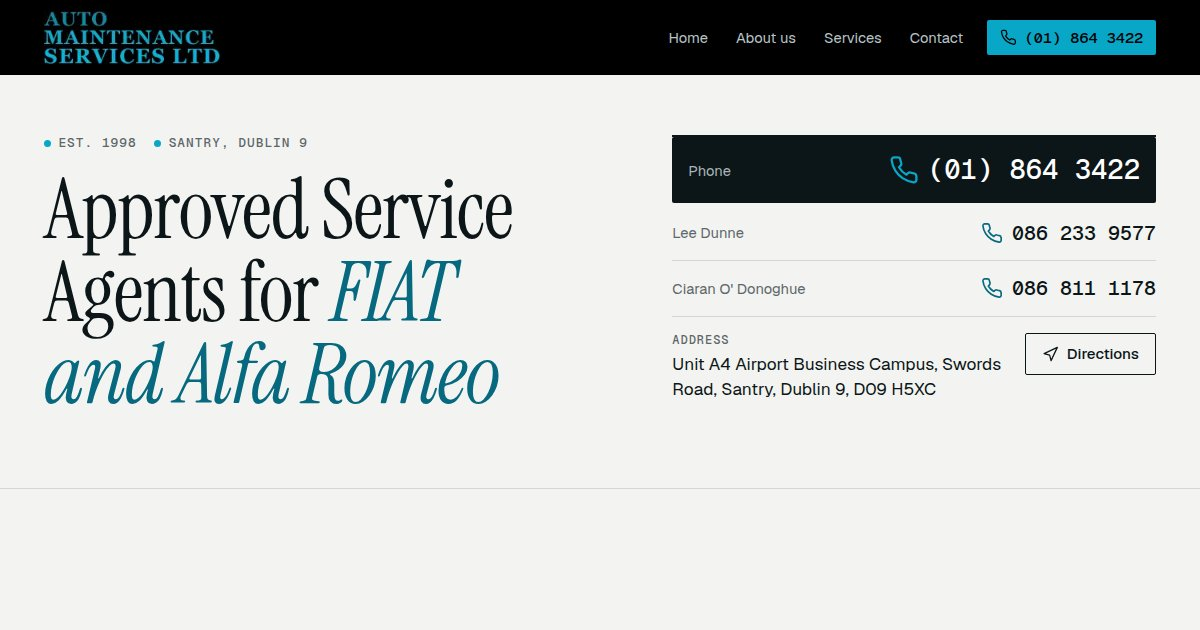
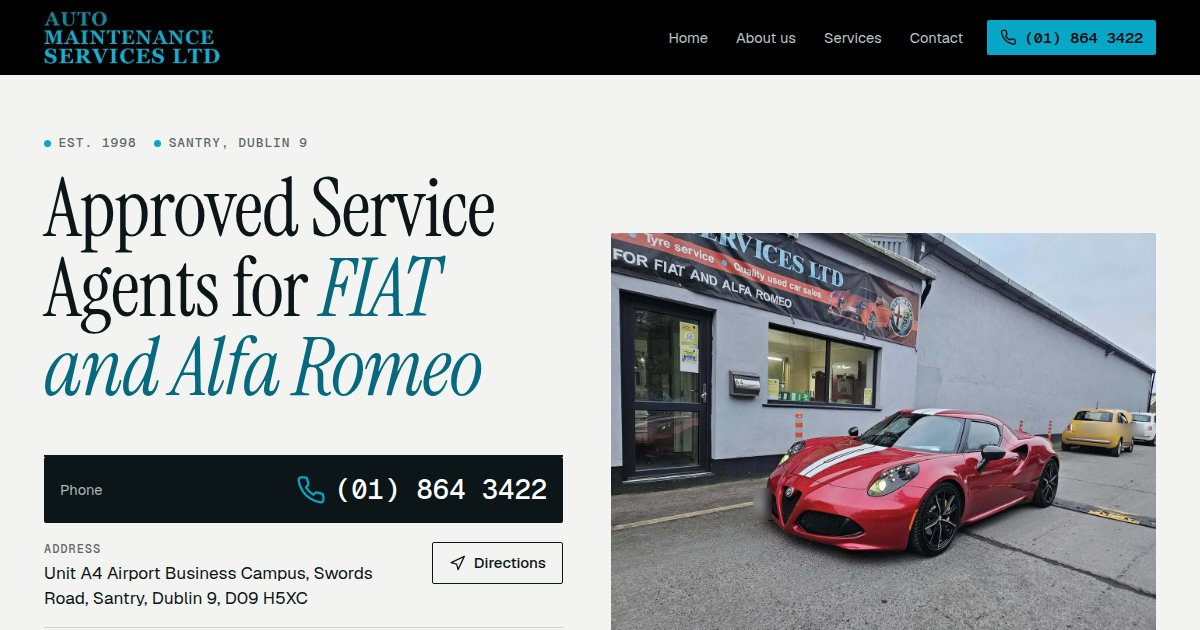
automaintenance.ie: own photos from the Facebook page
Hero: A-2, red 4C at the door under the Services Ltd banner (the banner
reads more clearly than in A-8). Workshop pair next to the service list:
open bonnet with equipment, injector cleaning. Gallery of six: horizontal
strip on phones, 3x2 grid on desktop. No captions.

Number plates blurred wherever readable. WebP, 968 KB for nine photos,
lazy below the first screen. Address moved right under the main number so
number and address sit above the fold from 360x740 up.

Claude-Session: https://claude.ai/code/session_01J7uHiudgy6bD3HoXPL7YoM

diff --git a/automaintenance/index.html b/automaintenance/index.html
@@ -41,12 +41,18 @@
     address sit above the fold at 320px. Every number is tap-to-call.
   - Typography, grid, spacing. One radius system: 2px.
   - Text set as text. On the original most of it sits in images.
+  - New: photo gallery (#gallery) and two workshop photos next to the
+    service list.
 
   IMAGES
-  None. The car photos on the original are FIAT / Alfa Romeo
-  marketing images with manufacturer logos, not the business's own
-  photos, so they are not used. No stock. A photo of the workshop
-  from the owner would go next to the About text.
+  Nine photos from the business's own Facebook page: customers' cars
+  outside Unit A4 and work in the workshop. Number plates blurred on
+  every photo where they were readable (front-4c, spider-door,
+  diagnostics, injector-clean, and two background cars in front-4c
+  and classic-coupe). No captions: models are named only in alt text,
+  and only where certain.
+  The FIAT / Alfa Romeo marketing images on the original are not
+  used: they show 2007-2014 models and the FCA logo. No stock.
 
   LEFT OUT (not on the site, or nothing to build from)
   - Opening hours: the site states none.
@@ -83,7 +89,7 @@
   --serif:"Instrument Serif", Georgia, "Times New Roman", serif;
   --sans:"Geist", system-ui, -apple-system, "Segoe UI", sans-serif;
   --mono:"Geist Mono", ui-monospace, "SFMono-Regular", Menlo, monospace;
-  --fs-hero:clamp(2.5rem, 1.5rem + 5vw, 5.6rem);
+  --fs-hero:clamp(2.25rem, 1.3rem + 5vw, 5.6rem);
   --fs-h2:clamp(2.1rem, 1.5rem + 2.8vw, 3.8rem);
   --fs-body:clamp(1rem, .97rem + .15vw, 1.08rem);
 }
@@ -117,15 +123,16 @@ a{color:inherit}
 @media (min-width:900px){.nav{display:flex}}
 
 /* ---------- hero ---------- */
-.hero{padding-block:clamp(1.5rem,5vw,4.5rem) clamp(2.5rem,6vw,5rem);border-bottom:1px solid var(--line)}
-.hero-grid{display:grid;gap:clamp(1.75rem,4vw,4rem)}
+.hero{padding-block:clamp(1rem,5vw,4.5rem) clamp(2.5rem,6vw,5rem);border-bottom:1px solid var(--line)}
+.hero-grid{display:grid;gap:clamp(1.25rem,4vw,4rem)}
 .meta{display:flex;flex-wrap:wrap;gap:.35rem 1.1rem;font:500 .8rem/1.3 var(--mono);text-transform:uppercase;letter-spacing:.08em;color:var(--muted);margin:0 0 1.1rem}
 .meta span{display:inline-flex;align-items:center;gap:.45rem}
 .meta span::before{content:"";width:.45rem;height:.45rem;background:var(--teal);border-radius:50%;flex:none}
 h1{font:400 var(--fs-hero)/.98 var(--serif);letter-spacing:-.015em;margin:0;max-width:14ch}
 h1 em{font-style:italic;color:var(--teal-text)}
 
-.dir{border-top:2px solid var(--ink);align-self:start}
+.dir{border-top:2px solid var(--ink);align-self:start;display:flex;flex-direction:column}
+.dir-main{order:1}.dir-addr{order:2}.dir-row:not(.dir-main){order:3}
 .dir-row{display:flex;flex-wrap:wrap;align-items:center;justify-content:space-between;gap:.2rem 1rem;padding:.95rem 0;border-bottom:1px solid var(--line);text-decoration:none}
 .dir-row .who{font-size:.92rem;color:var(--muted);flex:1 1 9em}
 .dir-row .num{font:500 clamp(1.05rem,1rem + .35vw,1.25rem)/1.2 var(--mono);display:inline-flex;align-items:center;gap:.55rem;white-space:nowrap}
@@ -137,13 +144,12 @@ a.dir-row:hover .num{color:var(--teal-text)}
 .dir-main .num .ico{color:var(--teal)}
 a.dir-main:hover{background:#18272b}
 a.dir-main:hover .num{color:#fff}
-.dir-addr{padding:1rem 0 0;display:flex;flex-wrap:wrap;gap:.75rem 1rem;align-items:flex-start;justify-content:space-between}
+.dir-addr{padding:1rem 0;border-bottom:1px solid var(--line);display:flex;flex-wrap:wrap;gap:.75rem 1rem;align-items:flex-start;justify-content:space-between}
 .dir-addr p{margin:0;flex:1 1 14em;line-height:1.45}
 .dir-addr p small{display:block;font:500 .75rem/1.3 var(--mono);letter-spacing:.08em;text-transform:uppercase;color:var(--muted);margin-bottom:.25rem}
 .btn{display:inline-flex;align-items:center;justify-content:center;gap:.5rem;text-decoration:none;border-radius:var(--r);padding:.75rem 1rem;font:500 .95rem/1.1 var(--sans);transition:background .15s ease}
 .btn-line{border:1px solid var(--ink);color:var(--ink)}
 .btn-line:hover{background:var(--ink);color:#fff}
-@media (min-width:960px){.hero-grid{grid-template-columns:1.2fr 1fr;align-items:end}}
 
 /* ---------- sections ---------- */
 section{padding-block:clamp(3.25rem,8vw,7rem)}
@@ -172,7 +178,7 @@ h2 em{font-style:italic}
 .svc-list li{counter-increment:s;display:flex;gap:1rem;padding:.85rem 0;border-bottom:1px solid var(--line);line-height:1.4}
 .svc-list li::before{content:counter(s, decimal-leading-zero);font:500 .8rem/1.75 var(--mono);color:var(--teal-text);flex:none;width:1.8rem}
 @media (min-width:720px){.svc-list{columns:2;column-gap:2.5rem}.svc-list li{break-inside:avoid}}
-@media (min-width:1080px){.svc-grid{grid-template-columns:.8fr 1.2fr;align-items:start}.svc-intro{position:sticky;top:6rem}}
+@media (min-width:1080px){.svc-grid{grid-template-columns:.8fr 1.2fr;align-items:start}}
 
 /* contact */
 .contact{background:var(--ink);color:#fff}
@@ -197,6 +203,29 @@ footer{background:var(--black);color:#8e9a9d;padding:2rem 0;font-size:.9rem}
 footer .wrap{display:flex;flex-wrap:wrap;gap:1rem 2rem;align-items:center;justify-content:space-between}
 footer img{width:150px}
 footer p{margin:0}
+
+/* ---------- photos ---------- */
+.hero-photo{margin:0;border-radius:var(--r);overflow:hidden;background:var(--bg-2)}
+.hero-photo img{width:100%;aspect-ratio:2/1;object-fit:cover;object-position:50% 35%}
+@media (min-width:600px){.hero-photo img{aspect-ratio:16/9}}
+@media (min-width:960px){
+  .hero-grid{grid-template-columns:1fr 1.05fr;align-items:start}
+  .hero-photo{grid-column:2;grid-row:1 / span 2;align-self:center}
+  .hero-photo img{aspect-ratio:4/3}
+  .hero-text{grid-column:1;grid-row:1}
+  .dir{grid-column:1;grid-row:2}
+}
+.work{display:grid;grid-template-columns:1fr 1fr;gap:.6rem;margin-top:1.75rem}
+.work figure{margin:0;border-radius:var(--r);overflow:hidden;background:var(--bg-2)}
+.work img{width:100%;aspect-ratio:4/5;object-fit:cover}
+.work .w2 img{object-position:62% 50%}
+.gallery-strip{display:flex;gap:.75rem;overflow-x:auto;scroll-snap-type:x mandatory;padding-bottom:.75rem;scrollbar-width:thin}
+.gallery-strip figure{flex:none;width:min(80%,440px);margin:0;scroll-snap-align:start;border-radius:var(--r);overflow:hidden;background:var(--bg-2)}
+.gallery-strip img{width:100%;aspect-ratio:4/3;object-fit:cover}
+@media (min-width:900px){
+  .gallery-strip{display:grid;grid-template-columns:repeat(3,1fr);overflow:visible;padding-bottom:0}
+  .gallery-strip figure{width:auto}
+}
 
 .rv{opacity:0;transform:translateY(12px);transition:opacity .6s ease, transform .6s ease}
 .rv.in{opacity:1;transform:none}
@@ -230,7 +259,10 @@ footer p{margin:0}
 <main>
 <div class="hero" id="home">
   <div class="wrap hero-grid">
-    <div>
+    <figure class="hero-photo">
+      <img src="img/front-4c.webp" alt="Red Alfa Romeo 4C parked at the door of Auto Maintenance Services, under the Services Ltd banner: Tyre service, Quality used car sales, for Fiat and Alfa Romeo" width="1400" height="1050" fetchpriority="high">
+    </figure>
+    <div class="hero-text">
       <p class="meta"><span>Est. 1998</span><span>Santry, Dublin 9</span></p>
       <h1>Approved Service Agents for <em>FIAT and Alfa Romeo</em></h1>
     </div>
@@ -274,6 +306,10 @@ footer p{margin:0}
       <h2>Expert Commercial <em>Servicing</em></h2>
       <p>It's vital that you have your Alfa Romeo or FIAT serviced at the recommended intervals. Fully factory trained technicians with the know-how to care for your car to the highest possible standards staff Auto Maintenance Services' modern comprehensively equipped workshops.</p>
       <p class="quote">Should you need repairs beyond the usual requirement, please contact us for a quotation.</p>
+      <div class="work">
+        <figure><img src="img/diagnostics.webp" alt="Black Alfa Romeo with the bonnet open in front of the workshop, connected to service equipment" width="600" height="1067" loading="lazy"></figure>
+        <figure class="w2"><img src="img/injector-clean.webp" alt="Injector cleaning machine connected to an Alfa Romeo JTS engine" width="900" height="507" loading="lazy"></figure>
+      </div>
     </div>
     <div class="rv">
       <p style="margin-top:0;color:var(--muted)">We provide a number of services as listed below:-</p>
@@ -296,6 +332,22 @@ footer p{margin:0}
         <li>Pre N.C.T Testing</li>
         <li>Car/Van Hire.</li>
       </ol>
+    </div>
+  </div>
+</section>
+
+<section class="gallery" id="gallery">
+  <div class="wrap">
+    <p class="label rv">From our Facebook page</p>
+    <h2 class="rv">Gallery</h2>
+    <!-- Photos from the business's Facebook page. Plates blurred. -->
+    <div class="gallery-strip" tabindex="0" aria-label="Photos, scroll sideways">
+      <figure><img src="img/alfas-row.webp" alt="Three Alfa Romeo Giulias parked in a row" width="860" height="645" loading="lazy"></figure>
+      <figure><img src="img/white-4c.webp" alt="White Alfa Romeo 4C" width="860" height="484" loading="lazy"></figure>
+      <figure><img src="img/classic-coupe.webp" alt="Classic red Alfa Romeo coupe outside the workshop" width="860" height="645" loading="lazy"></figure>
+      <figure><img src="img/spider-door.webp" alt="Red Alfa Romeo Spider at the workshop door" width="860" height="484" loading="lazy"></figure>
+      <figure><img src="img/red-500.webp" alt="Red Abarth 500 outside the workshop" width="860" height="484" loading="lazy"></figure>
+      <figure><img src="img/interior.webp" alt="Red leather interior of an Alfa Romeo" width="860" height="645" loading="lazy"></figure>
     </div>
   </div>
 </section>
